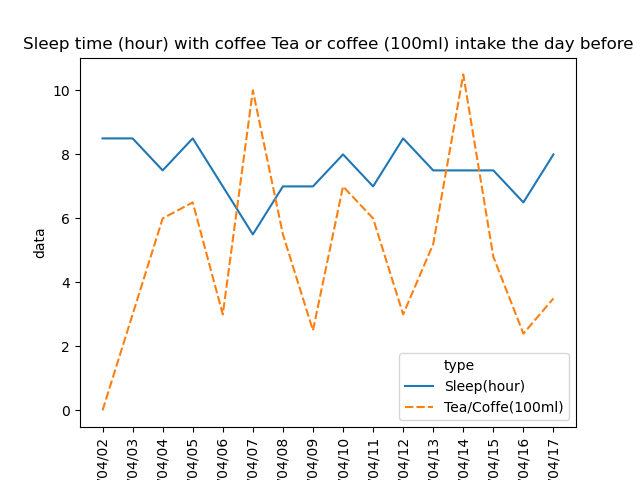
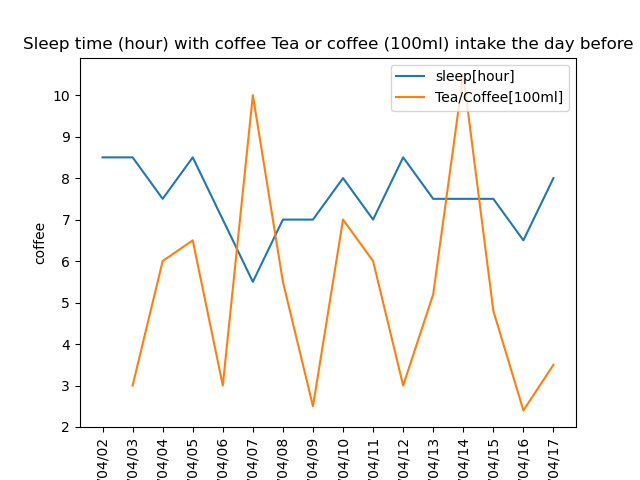
inputデータ修正　当日の睡眠時間と前日の摂取量を連動させるようにした

diff --git a/makeFig.py b/makeFig.py
@@ -38,32 +38,11 @@ csvData = pd.read_csv("./data.csv",encoding="utf_8")
 print(csvData)
 csvData.to_json("./data.json") 
 
-# 飲んだ飲み物の量は翌日の睡眠時間に関係があるので、
-# 飲んだ量を翌日の日付と紐づけるために一日ずらしたデータに整形する。
-anlyDf=pd.DataFrame({
-  "day":np.concatenate([
-      csvData.day[153:],
-      csvData.day[153:],
-      [0], # 飲み物の日付が一日後ろにずれるので行列の大きさを調整する
-    ]),
-  "type":np.concatenate([
-      np.tile("Sleep(hour)",len(csvData.hour[153:])),
-      (np.tile("Tea/Coffe(100ml)",len(csvData.coffee[153:]))),
-      ["Tea/Coffe(100ml)"], # 飲み物の日付が一日後ろにずれるので行列の大きさを調整する
-    ]),
-  "data":np.concatenate([
-      csvData.hour[153:],
-      [0], # この0mlを挿入することで飲み物の日付を翌日の睡眠時間と合わせる
-      csvData.coffee[153:]/100,# 睡眠時間と有効桁数を合わせるために100ml単位にする
-    ]),
-  })  
-print(anlyDf)
-
 # 折れ線グラフプロット
-fig = sns.lineplot(x="day", y="data",data=anlyDf,hue="type",style="type")
+fig = sns.lineplot(x=csvData.day[153:],y=csvData.hour[153:],label="sleep[hour]")
+fig = sns.lineplot(x=csvData.day[153:],y=csvData.coffee[153:]/100,label="Tea/Coffee[100ml]")
 
-# x軸ラベルを設定＆ラベル表示を90度回転
-fig.set_xticklabels(anlyDf.day, rotation="90")
+fig.set_xticklabels(csvData.day[153:], rotation="90")
 
 # 凡例、タイトル
 plt.legend()

diff --git a/README.md b/README.md
@@ -31,10 +31,10 @@ pip install seaborn
 ### データ構造
 data.csvのデータ構造（例）
 
-|No.|日付|睡眠時間|摂取量(ml)|備考|
-|:--|:--|:--|:--|:--|
-|1|`day`|`hour`|`coffee`|この行は変更不可。|
-|2|2020.04.01 |7.5|800|睡眠時間と摂取量の日付は起床した(摂取した)日付を記入し、|
-|3|2020.04.02 |5.5|300|摂取摂取量は`ml`単位で記入する。|
-|4|2020.04.03 |8.5|300||
-|5... |...|...|...||
+|No.|日付|睡眠時間|コーヒー摂取量(ml)|ビール摂取量(ml)|備考|
+|:--|:--|:--|:--|:--|:--|
+|1|`day`|`hour`|`coffee`|`beer`|この行は変更不可。|
+|2|2020.04.01 |7.5|800|0|起床した日の睡眠時間と**前日の**摂取量を記載する。|
+|3|2020.04.02 |5.5|300|350|摂取摂取量は`ml`単位で記入する。|
+|4|2020.04.03 |8.5|300|0||
+|5... |...|...|...|...||
